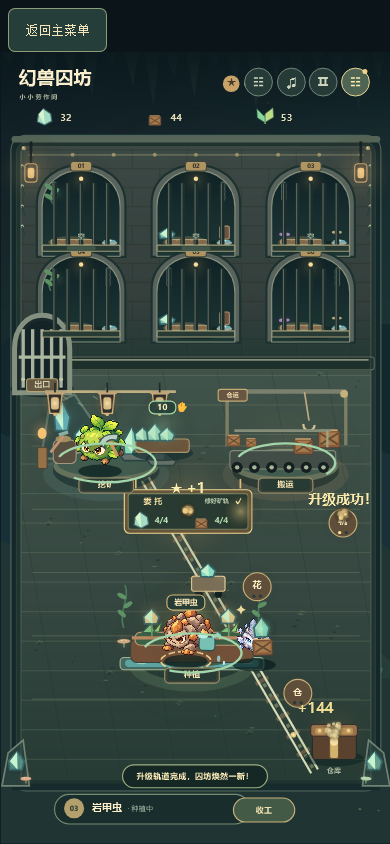
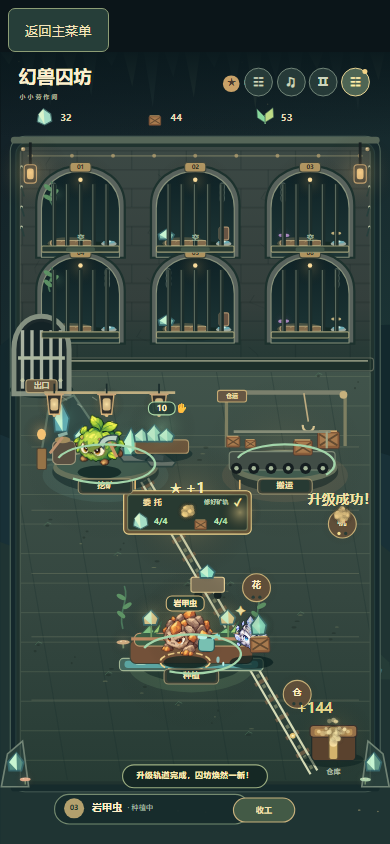
新加囚笼

diff --git a/docs/CAPTURE_PRISON.md b/docs/CAPTURE_PRISON.md
@@ -33,3 +33,5 @@
 - `tests/prison-integration.spec.ts`：桌面/手机的真实图片、入住权限、三工种、运输、委托、建筑、关闭恢复与页面边界。
 
 扩大回归的`run-flow.spec.ts`与`wave-director.spec.ts`存在6项数值断言失败。在临时副本去掉本次Combat捕捉保护变更后，同样6项失败、其余15项通过；基线输出见`artifacts/capture-baseline-regression.txt`。不把这些既有波次/商店数值问题纳入捕捉任务修改。
+
+WebKit扩展的`run-flow-ui.spec.ts`已走完六波、Boss胜利、重开及死亡结算，但最后等待现界面已不存在的`#start-legacy-party`而超时；该旧入口在任务开始前的界面即已移除，本次没有恢复。捕捉与囚坊的专用WebKit流程单独通过。
